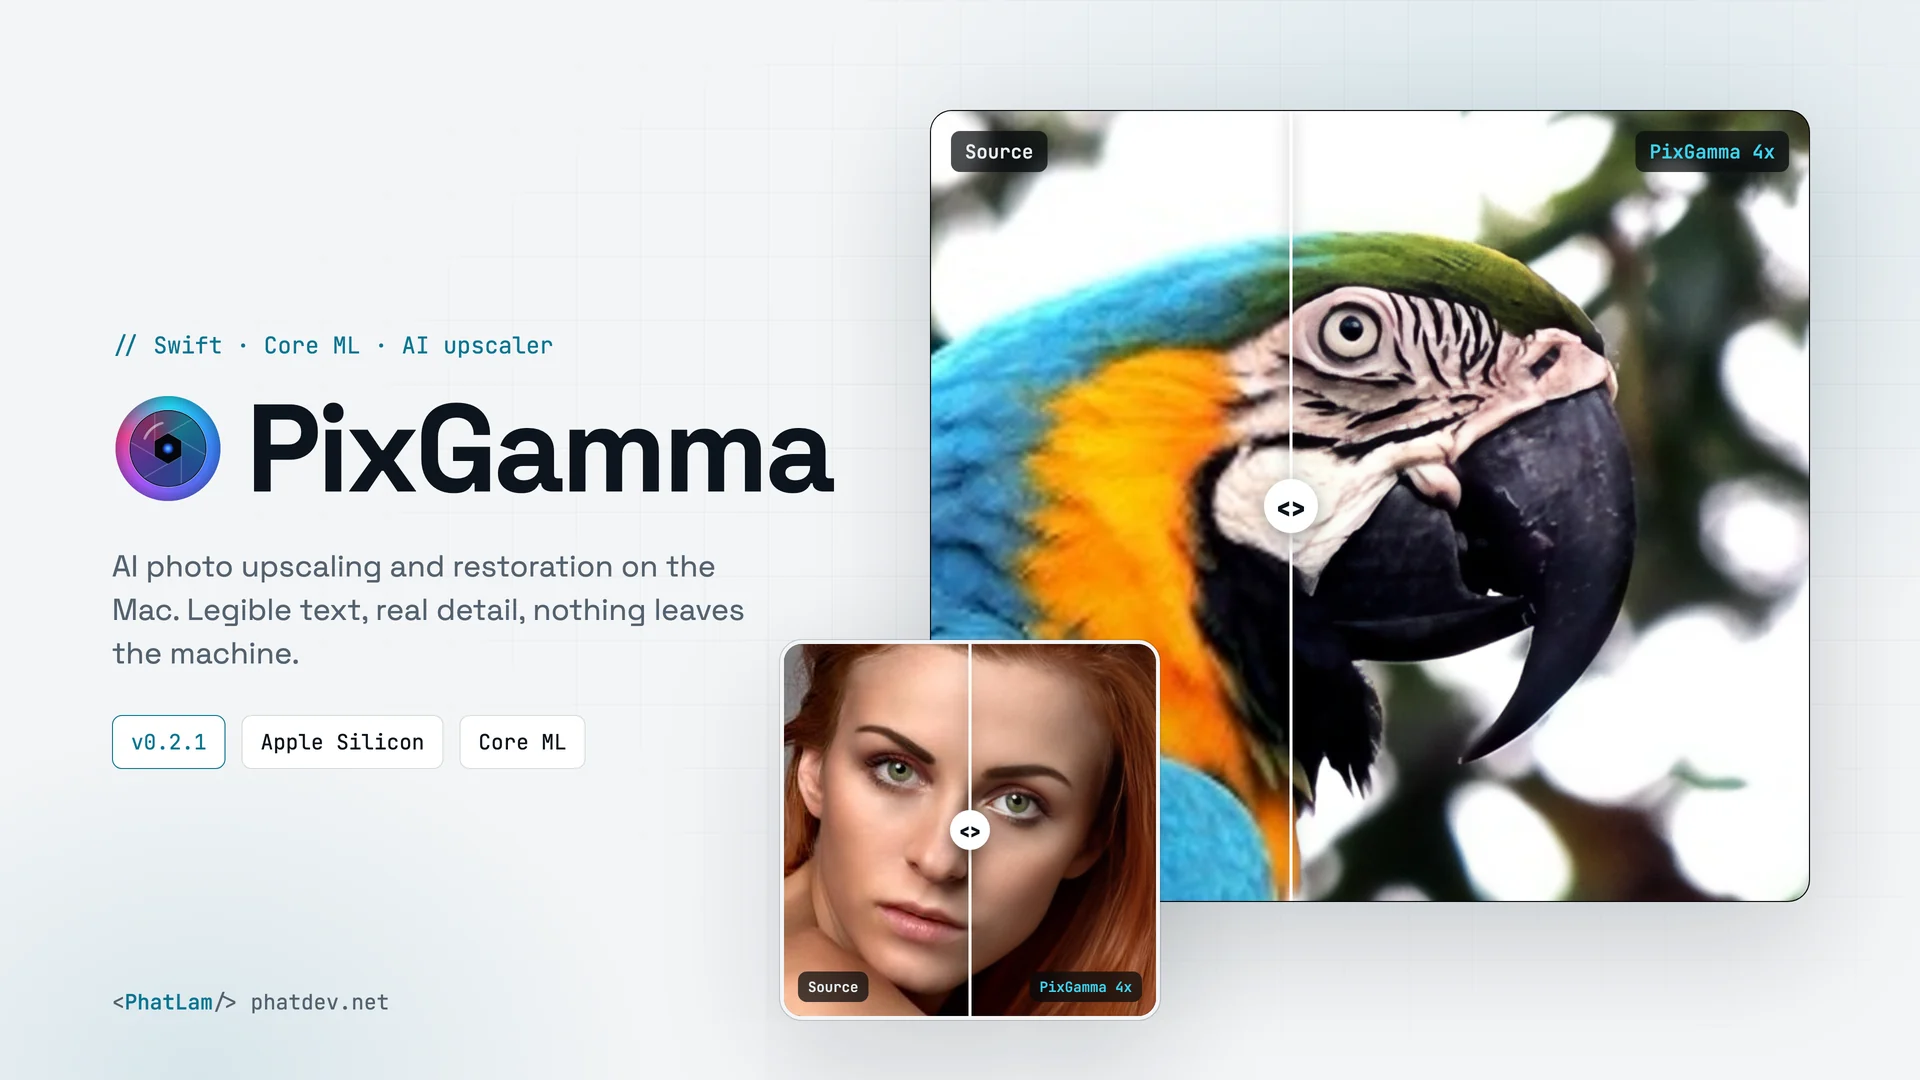
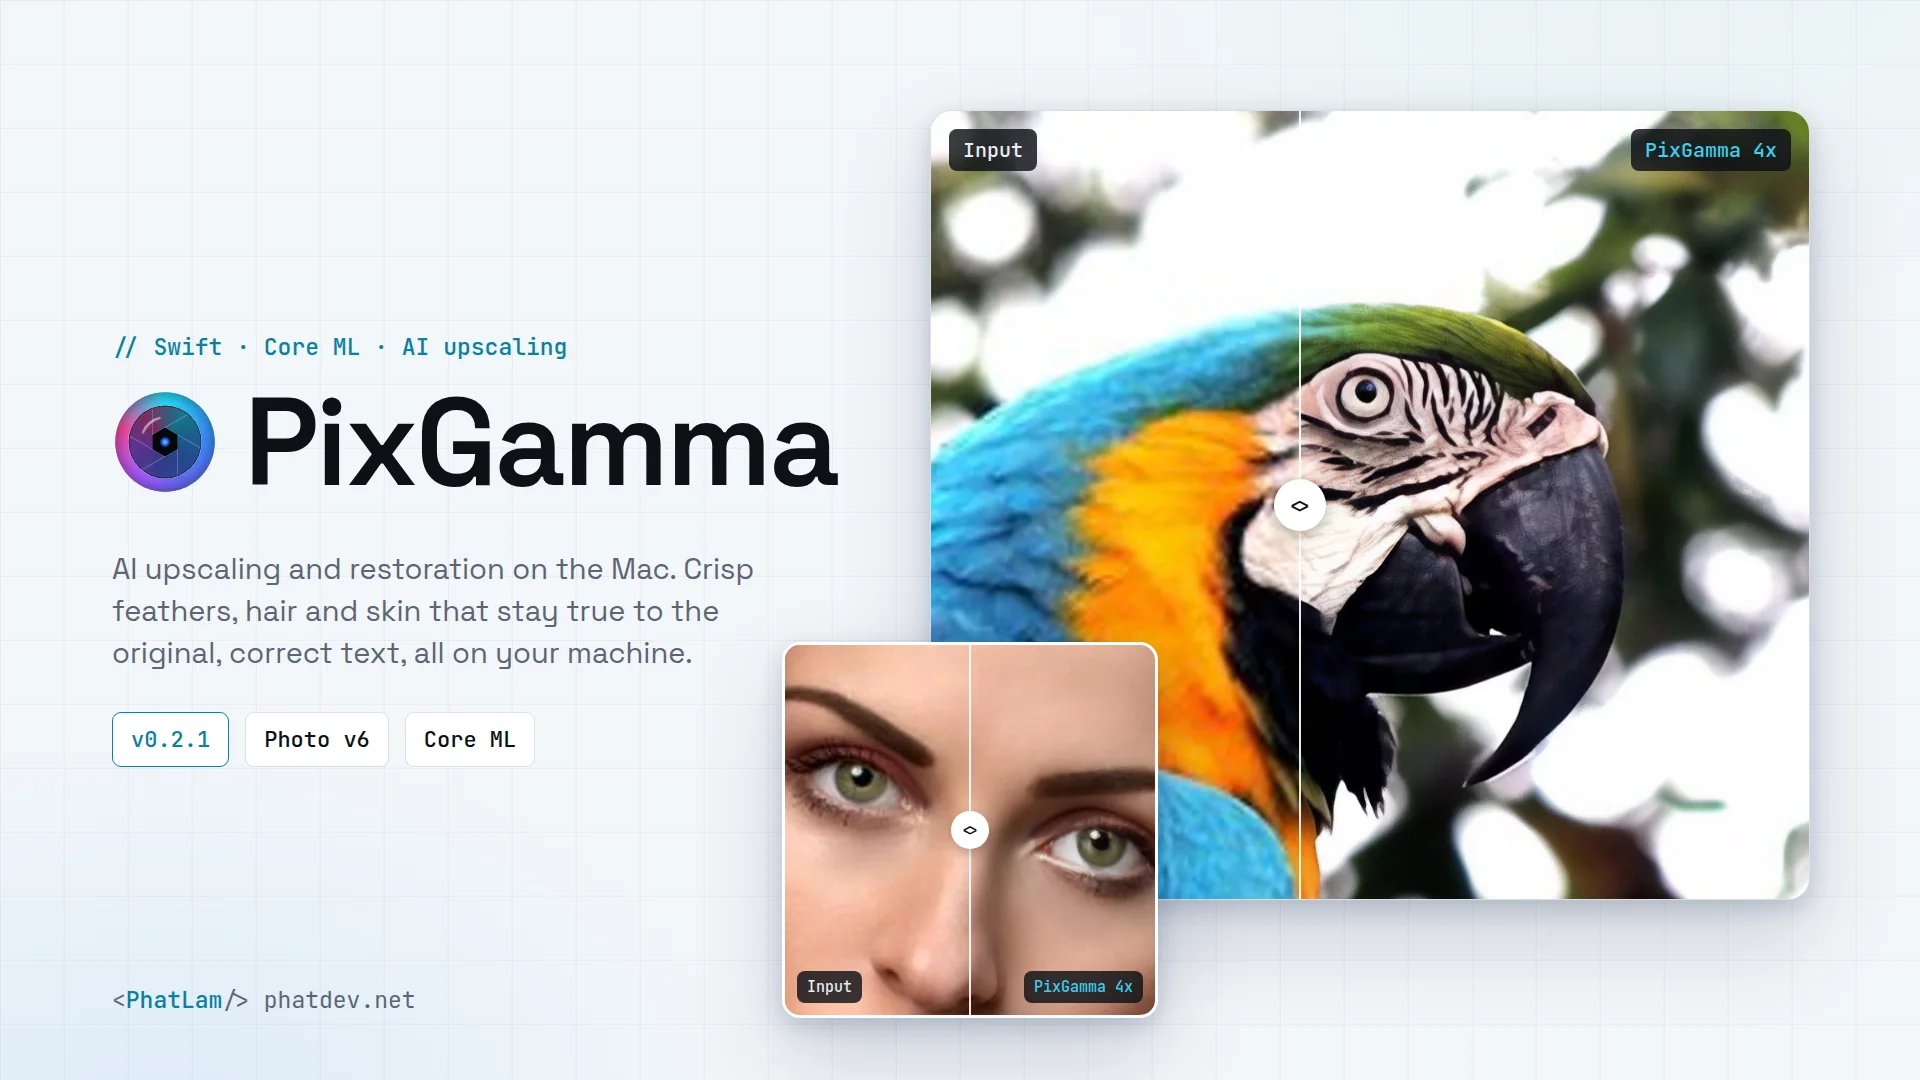
README: new samples made with Photo v6
The hero and the example images now come from the current app (Photo v6,
Auto mode) instead of the 0.2.1 build. Each example shows bicubic, PixGamma
4x and the original side by side, cropped at 1:1, with Vietnamese and
English labels. Adds a long-hair example from a CC0 photo; credits updated.

diff --git a/README.md b/README.md
@@ -91,19 +91,23 @@ Xóa `/Applications/PixGamma.app` và thư mục `~/Library/Application Support/
 
 ## Ví dụ
 
-Ảnh vào được thu nhỏ 4 lần rồi nén JPEG để giống ảnh lấy từ web. Bên trái phóng lại bằng bicubic, bên phải là PixGamma 4x.
+Ảnh vào được thu nhỏ 4 lần rồi nén JPEG để giống ảnh lấy từ web, sau đó phóng 4x bằng app (chế độ Auto, PixGamma Photo v6). Mỗi ảnh gồm phóng thường bicubic, PixGamma 4x và ảnh gốc, cắt đúng điểm ảnh 1:1.
 
 | Bàn phím ThinkPad đèn nền (giữ chữ) |
 |---|
-| ![Bàn phím ThinkPad: bicubic và PixGamma](docs/samples/compare-thinkpad.jpg) |
+| ![Bàn phím ThinkPad: bicubic, PixGamma và ảnh gốc](docs/samples/compare-thinkpad-vi.jpg) |
 
 | Vẹt (Standard) |
 |---|
-| ![Vẹt: bicubic và PixGamma](docs/samples/compare-macaw.jpg) |
+| ![Vẹt: bicubic, PixGamma và ảnh gốc](docs/samples/compare-macaw-vi.jpg) |
 
 | Chân dung (khuôn mặt Chân thực) |
 |---|
-| ![Chân dung: bicubic và PixGamma](docs/samples/compare-face.jpg) |
+| ![Chân dung: bicubic, PixGamma và ảnh gốc](docs/samples/compare-face-vi.jpg) |
+
+| Tóc dài (Standard) |
+|---|
+| ![Tóc: bicubic, PixGamma và ảnh gốc](docs/samples/compare-hair-vi.jpg) |
 
 Nguồn ảnh mẫu ở [docs/samples/CREDITS.md](docs/samples/CREDITS.md) (CC0 và public domain).
 

diff --git a/docs/samples/CREDITS.md b/docs/samples/CREDITS.md
@@ -1,10 +1,11 @@
 # Nguồn ảnh mẫu
 
-Ảnh gốc trong `docs/samples/source/` được tải từ Wikimedia Commons. Ảnh so sánh `compare-*.jpg`
-và ảnh bìa `docs/brand/hero-*.webp` do PixGamma tạo từ các ảnh này (thu nhỏ 4 lần, nén JPEG, rồi phóng lại).
+Ảnh gốc trong `docs/samples/source/` được tải từ Wikimedia Commons. Ảnh so sánh `compare-*-{vi,en}.jpg`
+và ảnh bìa `docs/brand/hero-*.webp` do PixGamma tạo từ các ảnh này (thu nhỏ 4 lần, nén JPEG, rồi phóng lại 4x bằng app với PixGamma Photo v6).
 
 | File | Ảnh gốc | Tác giả | Giấy phép |
 |---|---|---|---|
 | `thinkpad.jpg` | [ThinkpadKeyboard](https://commons.wikimedia.org/wiki/File:ThinkpadKeyboard.jpg) | Raysonho @ Open Grid Scheduler / Grid Engine | CC0 1.0 |
 | `macaw.jpg` | [Macaw parrot sitting on a tree branch](https://commons.wikimedia.org/wiki/File:Macaw_parrot_sitting_on_a_tree_branch.jpg_.jpg) | Christopher Kuszajewski | CC0 1.0 |
+| `hair.jpg` | [Long hair model](https://commons.wikimedia.org/wiki/File:Long_hair_model.jpg) | Andrea Piacquadio (@VanveenJF) | CC0 1.0 |
 | `girl.jpg` | [Attractive beautiful redhead girl](https://commons.wikimedia.org/wiki/File:Attractive_beautiful_redhead_girl.jpg) | Jerzy Górecki | CC0 1.0 |

diff --git a/README.en.md b/README.en.md
@@ -91,19 +91,23 @@ Delete `/Applications/PixGamma.app` and `~/Library/Application Support/PixGamma`
 
 ## Examples
 
-Inputs were downscaled 4x and JPEG-compressed to mimic web images. Left: bicubic; right: PixGamma 4x.
+Inputs were downscaled 4 times and JPEG-compressed to mimic web images, then upscaled 4x by the app (Auto mode, PixGamma Photo v6). Each row shows a bicubic resize, PixGamma 4x and the original, cropped at 1:1 pixels.
 
 | Backlit ThinkPad keyboard (text protection) |
 |---|
-| ![ThinkPad keyboard: bicubic vs PixGamma](docs/samples/compare-thinkpad.jpg) |
+| ![ThinkPad keyboard: bicubic, PixGamma and the original](docs/samples/compare-thinkpad-en.jpg) |
 
 | Macaw (Standard) |
 |---|
-| ![Macaw: bicubic vs PixGamma](docs/samples/compare-macaw.jpg) |
+| ![Macaw: bicubic, PixGamma and the original](docs/samples/compare-macaw-en.jpg) |
 
 | Portrait (Realistic face) |
 |---|
-| ![Portrait: bicubic vs PixGamma](docs/samples/compare-face.jpg) |
+| ![Portrait: bicubic, PixGamma and the original](docs/samples/compare-face-en.jpg) |
+
+| Long hair (Standard) |
+|---|
+| ![Hair: bicubic, PixGamma and the original](docs/samples/compare-hair-en.jpg) |
 
 Sample sources: [docs/samples/CREDITS.md](docs/samples/CREDITS.md) (CC0 and public domain).
 
